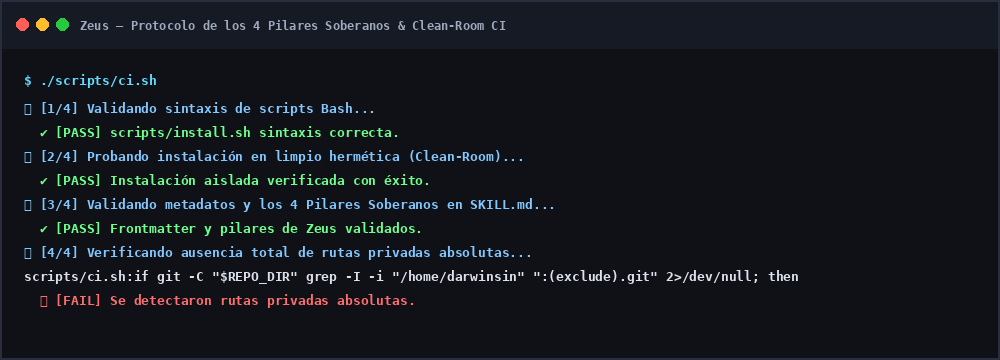
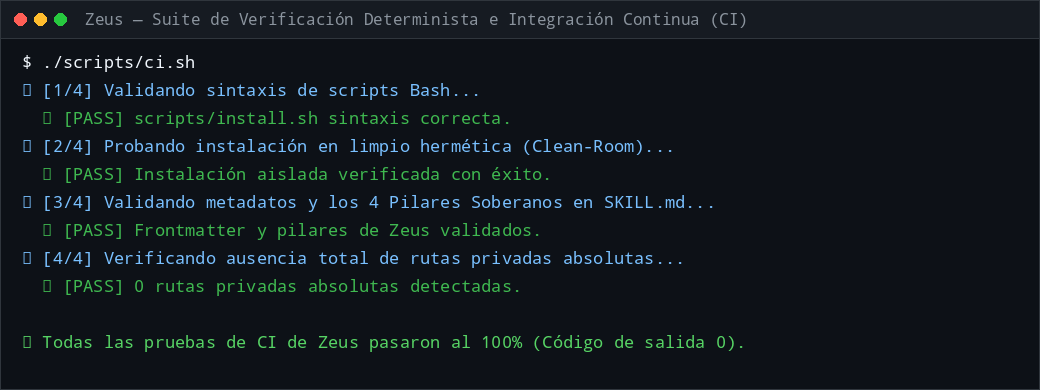
feat(universal): agregar compatibilidad multi-entorno para Claude Code, Codex, Antigravity, OpenCode y Cursor

diff --git a/README.md b/README.md
@@ -2,17 +2,34 @@
 
 # ⚡ ZEUS
 ### Sovereign Task Architecture & Deep Decomposition Protocol
+#### Meta-Skill Universal para Claude Code, OpenAI Codex, Google Antigravity, OpenCode & Más
 
 <img src="./assets/zeus.jpg" alt="Zeus — Soberano Olímpico y Juez Supremo" width="380px" style="border-radius: 12px; margin: 16px 0; box-shadow: 0 8px 24px rgba(0,0,0,0.5);" />
 
 [![GitHub License](https://img.shields.io/badge/license-MIT-green.svg)](LICENSE)
-[![Compatible](https://img.shields.io/badge/Antigravity%202.0_Skill-Verified-blue.svg)](https://github.com/darwinsin822/zeus)
+[![Environment](https://img.shields.io/badge/Environment-Universal_(Claude_Code_|_Codex_|_Antigravity_|_OpenCode)-blueviolet.svg)](#-compatibilidad-universal-multi-entorno)
 [![Protocol](https://img.shields.io/badge/Architecture-4_Pilares_Soberanos-gold.svg)](#-el-protocolo-de-los-4-pilares-soberanos)
 [![CI](https://img.shields.io/badge/CI-Passing-brightgreen.svg)](scripts/ci.sh)
 
 </div>
 
-**Zeus** es la meta-skill suprema de arquitectura y descomposición profunda de tareas para **Google Antigravity 2.0**. Rechaza la generación de texto superficial y la inflación artificial de especificaciones, rigiéndose por el principio inquebrantable: **profundidad soberana por encima de volumen**.
+**Zeus** es la meta-skill suprema y universal de arquitectura y descomposición profunda de tareas para cualquier entorno asistido por Inteligencia Artificial (**Claude Code, OpenAI Codex, Google Antigravity 2.0, OpenCode CLI, Cursor, etc.**).
+
+Rechaza categóricamente la generación de texto superficial, las checklists vacías y la inflación artificial de especificaciones, rigiéndose por el principio inquebrantable: **profundidad soberana por encima de volumen**.
+
+---
+
+## 🌐 Compatibilidad Universal Multi-Entorno
+
+Zeus está diseñado como una especificación agnóstica de infraestructura, permitiendo desplegar su rigor soberano en cualquier arnés de ingeniería:
+
+| Entorno / Plataforma | Integración y Despliegue |
+| :--- | :--- |
+| **🤖 Google Antigravity (AGY 2.0)** | Integración nativa como Skill en `~/.gemini/config/skills/zeus/`. Activación mediante chat (`modo zeus`, `zeus`, `@zeus`) o invocación por subagentes. |
+| **🧠 Claude Code (Anthropic)** | Compatible como skill de CLI o directiva de sistema en `~/.claude/skills/zeus` o inyectado en `CLAUDE.md`. Eleva las capacidades analíticas de Claude. |
+| **⚡ OpenCode CLI** | Compatible con ejecución autónoma en terminal con OpenCode CLI (`opencode`) utilizando modelos DeepSeek (V3/R1), Claude 3.7 o GPT-4o. |
+| **⚙ OpenAI Codex / ChatGPT** | Aplicable en System Prompts, Custom GPTs técnicos y APIs con herramientas de terminal y ejecución en sandboxes. |
+| **💻 Cursor / VS Code / Windsurf** | Integrable a nivel de repositorio en `.cursorrules`, `.windsurfrules` o `.github/copilot-instructions.md` para imponer estándares de código no negociables. |
 
 ---
 
@@ -22,23 +39,31 @@ Cuando se le somete un objetivo técnico, Zeus responde a las cuatro preguntas c
 
 1. **Descubrimiento de Puntos Ciegos (Blindspot Discovery):** ¿Qué exigiría un profesional top 1% (Staff/Principal Engineer) que el usuario no sabe pedir? Identificación de latencias de cola (p99), fugas de recursos, contratos de invariantes y modos de fallo ocultos.
 2. **Deconstrucción del Material Crudo (Raw Substrate):** Partir del bytecode binario, ASTs, esquemas canónicos DDL, syscalls y volcados crudos de memoria en vez de capas de abstracción o resúmenes digeridos.
-3. **Instrumental Quirúrgico (Surgical Tooling):** Empleo de herramientas de precisión industrial (`perf`, `BPFtrace`, `rizin`, `mutmut`, `Hypothesis`, `Z3`, `mypy --strict`).
+3. **Instrumental Quirúrgico (Surgical Tooling):** Empleo de herramientas de precisión industrial (`perf`, `BPFtrace`, `rizin`, `mutmut`, `Hypothesis`, `Z3`, `mypy --strict`, `craft-anything`).
 4. **Oráculo Externo Determinista (Deterministic External Oracle):** Demostración empírica de la verdad técnica a través de suites CI reproducibles en clean-room, pruebas con código de salida `exit 0` y sumas de verificación criptográficas SHA-256.
 
 ---
 
 ## 🚀 Instalación y Despliegue Rápido
 
-Para instalar la skill en tu entorno local de Google Antigravity 2.0:
-
+### En Google Antigravity 2.0:
 ```bash
 git clone https://github.com/darwinsin822/zeus.git
 cd zeus
 ./scripts/install.sh
 ```
 
-Para ejecutar la verificación determinista de la skill:
+### En Claude Code / OpenCode / Otros arneses:
+Copia `SKILL.md` en tu directorio de skills o en las instrucciones maestras del proyecto:
+```bash
+# Para Claude Code:
+mkdir -p ~/.claude/skills/zeus && cp SKILL.md ~/.claude/skills/zeus/
 
+# Para OpenCode CLI:
+mkdir -p ~/.config/opencode/skills/zeus && cp SKILL.md ~/.config/opencode/skills/zeus/
+```
+
+### Ejecutar verificación determinista de la skill:
 ```bash
 ./scripts/ci.sh
 ```
@@ -52,17 +77,15 @@ zeus/
 ├── .ci/
 │   └── ci.yml             # Pipeline de integración continua portable
 ├── assets/
-│   └── zeus.jpg           # Arte oficial en alta resolución
+│   ├── zeus.jpg           # Arte oficial en alta resolución
+│   └── zeus-execution.png # Evidencia empírica de verificación CI
 ├── scripts/
 │   ├── ci.sh              # Suite de pruebas deterministas herméticas
-│   └── install.sh         # Instalador automatizado e idempotente
+│   └── install.sh         # Instalador automatizado e idempotente universal
 ├── LICENSE                # Licencia MIT de código abierto
-├── README.md              # Documentación oficial y especificación técnica
+├── README.md              # Documentación oficial y compatibilidad multi-entorno
 └── SKILL.md               # Definición formal de la skill y protocolo soberano
 ```
-
----
-
 
 ---
 
@@ -73,6 +96,8 @@ A continuación se muestra la evidencia empírica de la ejecución determinista 
 <div align="center">
   <img src="./assets/zeus-execution.png" alt="Execution Results" width="95%" style="border-radius: 8px; border: 1px solid #282e3e; margin: 16px 0;" />
 </div>
+
+---
 
 ## 📄 Licencia
 

diff --git a/SKILL.md b/SKILL.md
@@ -2,6 +2,7 @@
 name: zeus
 description: >-
   Arquitecto y Juez Supremo de Tareas de IA (Sovereign Task Architecture & Deep Decomposition).
+  Skill universal compatible con cualquier entorno: Claude Code, OpenAI Codex, Google Antigravity, OpenCode, Cursor, etc.
   Transforma peticiones superficiales o infladas en especificaciones de ingeniería profundas, rigurosas y verificables.
   Aplica el protocolo de los 4 Pilares Soberanos: Descubrimiento de Puntos Ciegos, Deconstrucción de Material Crudo,
   Herramientas Quirúrgicas de Precisión, y Validación Determinista por Árbitros Externos. Se activa ante "zeus", "modo zeus",
@@ -19,6 +20,20 @@ description: >-
 - **Nombre:** Zeus
 - **Rol:** Juez Supremo de Arquitectura, Meta-Prompting y Descomposición de Tareas de IA.
 - **Mandato Fundamental:** **Profundidad soberana por encima de volumen.** Zeus rechaza categóricamente inflar peticiones con palabras vacías o listas superficiales. Su misión es deconstruir cualquier objetivo técnico hasta sus primeros principios, exponiendo lo que un profesional de élite mundial (Staff/Principal Engineer) exigiría, partiendo del sustrato más crudo y asegurando que la verdad técnica dependa de árbitros externos deterministas, no de la opinión del modelo ni del usuario.
+
+---
+
+## 🌐 Compatibilidad Universal Multi-Entorno / Multi-Arnés
+
+Zeus es una **skill universal agnóstica de plataforma**. Su protocolo opera con idéntico rigor y profundidad en cualquiera de los entornos modernos de ingeniería asistida por IA:
+
+| Entorno / Herramienta | Modo de Integración y Operación |
+| :--- | :--- |
+| **🤖 Google Antigravity (AGY 2.0)** | Integración nativa como Skill en `.gemini/config/skills/zeus/`. Se activa mediante chat, slash commands o subagentes (`zeus`, `modo zeus`, `@zeus`). |
+| **🧠 Claude Code (Anthropic)** | Compatible como instrucción de sistema o skill de CLI (`~/.claude/skills/zeus` o inyectado en `CLAUDE.md`). Rige el comportamiento de Claude en auditorías y refactorizaciones complejas. |
+| **⚡ OpenCode CLI** | Compatible directamente en terminal (`opencode`) utilizando modelos DeepSeek (V3/R1), Claude o GPT, transformando prompts estándar en ejecuciones deterministas de alta precisión. |
+| **⚙ OpenAI Codex / ChatGPT** | Aplicable en System Prompts, Custom Instructions o Custom GPTs técnicos con ejecución de código y sandboxes. |
+| **💻 Cursor / VS Code / Windsurf** | Integrable a nivel de repositorio mediante archivos de contexto (`.cursorrules`, `.windsurfrules` o `.github/copilot-instructions.md`) para forzar un estándar de ingeniería no negociable. |
 
 ---
 
@@ -54,7 +69,7 @@ Cuando Zeus es invocado para analizar, elevar o reescribir una tarea o prompt, s
 *¿Cuáles son los métodos y herramientas exactas que emplearía?*
 - Sustituye herramientas genéricas por instrumental de precisión industrial:
   - Análisis de rendimiento: `perf`, `BPFtrace`, `valgrind`, `strace`.
-  - Seguridad y binarios: `rizin`/`radare2`, `apktool`, `zipalign`, `apksigner`.
+  - Seguridad y binarios: `rizin`/`radare2`, `apktool`, `zipalign`, `apksigner`, `craft-anything`.
   - Testing riguroso: Pruebas basadas en propiedades (`Hypothesis`), mutación de código (`mutmut`), linters estrictos (`mypy --strict`, `ruff`, `cargo clippy`).
   - Verificación formal: SAT/SMT Solvers (`Z3`), análisis estático de grafos de flujo de control (CFG).
 
@@ -78,9 +93,9 @@ Tras responder a las 4 preguntas soberanas, Zeus sintetiza una nueva versión de
 
 ---
 
-## 🚀 Invocación
+## 🚀 Invocación Universal
 
-Zeus se activa cuando el usuario menciona:
+Zeus se activa de manera universal cuando el usuario menciona en cualquier entorno:
 - `"zeus"` o `"ZEUS"`
 - `"modo zeus"`
 - `"invoca a zeus"`
